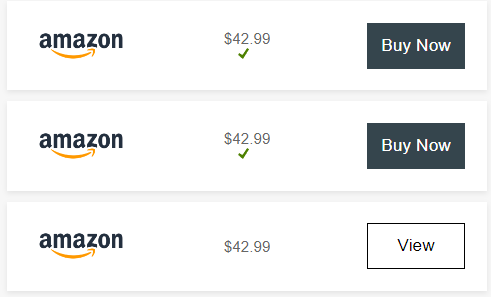
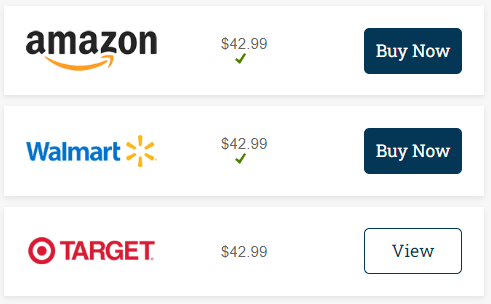
add example to template

diff --git a/ProductLightbox/example/override.css b/ProductLightbox/example/override.css
@@ -1,17 +1,17 @@
 /* VARIABLES */
 :root {
-    --dark-text: #000;
+    --dark-text: #043755;
     --light-text: #fff;
     --ribbon-background: var(--dark-text);
     --ribbon-text: var(--light-text);
     --footer-background: var(--ribbon-background);
     --footer-text: var(--ribbon-text);
     --search-icons: var(--dark-text);
-    --btn-border-radius: 0px;
+    --btn-border-radius: 5px;
     --btn-border-width: 1px;
-    --bubbles-border-radius: 0px;
+    --bubbles-border-radius: 25px;
     --geolocation-border-radius: var(--btn-border-radius);
-};
+}
 
 /* BUTTONS */
 .ps-widget[ps-sku].ps-enabled,
@@ -21,7 +21,10 @@ button.ps-online-buy-button.available {
     border-color: var(--dark-text);
     border-radius: var(--btn-border-radius);
     border-width: var(--btn-border-width);
-};
+}
+
+;
+
 .ps-widget[ps-sku].ps-disabled,
 button.ps-online-buy-button.unavailable {
     color: var(--dark-text);
@@ -29,7 +32,7 @@ button.ps-online-buy-button.unavailable {
     border-color: var(--dark-text);
     border-radius: var(--btn-border-radius);
     border-width: var(--btn-border-width);
-};
+}
 
 
 /* LOGO */
@@ -42,39 +45,45 @@ div.ps-client-logo.inline.small {
     display: flex;
     align-items: center;
     justify-content: center;
-};
-div.ps-client-logo.inline > div > img {
+}
+
+div.ps-client-logo.inline>div>img {
     width: 100px;
-};
+}
 
 /* HEADER */
-.ps-product-details > h2.ps-product-name {
+.ps-product-details>h2.ps-product-name {
     max-width: 630px;
     color: var(--dark-text);
-};
+}
+
 .ps-product-selector {
     display: flex;
     flex-direction: row;
     gap: 12px;
     max-width: 630px;
     margin-top: 15px;
-};
-.ps-product-selector > div {
+}
+
+.ps-product-selector>div {
     display: flex;
     flex-direction: column;
-};
-.ps-product-selector > div > label {
+}
+
+.ps-product-selector>div>label {
     font-weight: 600;
     color: var(--dark-text);
-};
-.ps-product-selector > div > select {
+}
+
+.ps-product-selector>div>select {
     height: auto;
     width: auto;
     padding: 4px 8px;
     border-radius: var(--btn-border-radius);
     border-color: var(--dark-text);
     color: var(--dark-text);
-};
+}
+
 .bubbles {
     font-family: Arial, Helvetica, sans-serif;
     font-weight: 600;
@@ -84,61 +93,68 @@ div.ps-client-logo.inline > div > img {
     color: var(--dark-text);
     border: 1px solid var(--dark-text);
     border-radius: var(--bubbles-border-radius);
-};
+}
+
 .bubbles:nth-of-type(1) {
     background: var(--dark-text);
     color: var(--light-text);
     border-color: var(--dark-text);
-};
+}
 
 /* MAIN */
 .ps-ribbon {
     background-color: var(--ribbon-background);
-};
-.ps-lightbox .ps-online-tab-label > h2, 
-.ps-lightbox .ps-local-tab-label > h2 {
+}
+
+.ps-lightbox .ps-online-tab-label>h2,
+.ps-lightbox .ps-local-tab-label>h2 {
     color: var(--ribbon-text);
-};
-.ps-location > div > span.ps-map-geolocation-button > svg > path, 
-.ps-location > div > span.ps-map-location-button > svg > path {
+}
+
+.ps-location>div>span.ps-map-geolocation-button>svg>path,
+.ps-location>div>span.ps-map-location-button>svg>path {
     fill: var(--search-icons);
-};
+}
+
 .ps-location>div>span.ps-map-location-button {
     border-top-right-radius: var(--geolocation-border-radius);
     border-bottom-right-radius: var(--geolocation-border-radius);
-};
+}
+
 .ps-location>div>span.ps-map-geolocation-button {
     border-top-left-radius: var(--geolocation-border-radius);
     border-bottom-left-radius: var(--geolocation-border-radius);
-};
+}
+
 .ps-location>div>input {
     border-radius: var(--geolocation-border-radius);
-};
+}
 
 /* FOOTER */
 .ps-footer {
     background-color: var(--footer-background);
     border-top-color: var(--footer-text);
-};
-.ps-footer > span > a > svg > path, 
-.ps-footer > div > span {
+}
+
+.ps-footer>span>a>svg>path,
+.ps-footer>div>span {
     color: var(--footer-text);
     fill: var(--footer-text);
-};
+}
 
 /* RESPONSIVE STYLES */
 @media screen and (max-width: 1024px) {
     div.ps-client-logo.inline.small {
         display: none;
-    };
-};
+    }
+}
 
 /* DISABLE SELLER OPTIONS */
 /* 
 .ps-stock-status {
     display: none;
-};
+}
 .ps-price {
     display: none;
-};
+} 
 */

diff --git a/ProductLightbox/example/script.js b/ProductLightbox/example/script.js
@@ -2,20 +2,23 @@
 // VARIABLES
 // =========
 const widgetID = "61c0a3400b9fd9001be2cc80";
-const prodName = "Product Name";
-const prodImgUrl = "https://www.neudesic.com/wp-content/uploads/priceSpider.jpg";
-const formattedPrice = "$0.00";
-const price = 0.00;
+const prodName = "Barrel Reserve Sloe Gin";
+const prodImgUrl = "https://assets.website-files.com/6064c9373e07d699e439019e/6078f77d217967f0c96f6ef5_Untitled%20design%20(2).png";
+const formattedPrice = "$42.99";
+const price = 42.99;
 const isProductSelector = true;
 const isBubbleSelector = false;
 const dropdownSelectors = [
-    { "label": null, "value": null },
-    { "label": null, "value": null },
-    { "label": null, "value": null}
+    { "label": "Type", "value": "Barrel Reserve Sloe Gin" },
+    { "label": "Quantity", "value": "1 Bottle" },
+    { "label": null, "value": null }
 ];
-const bubbleSelectors = [];
-const onlineSellerImgs = []; 
-const localSellerImgs = [];
+const bubbleSelectors = ["1 Bottle", "6-pack", "12-pack"];
+const onlineSellerImgs = [];
+const localSellerImgs = [
+    "https://beveragedynamics.com/wp-content/uploads/2017/06/bevmo-logo.jpg",
+    "https://www.walgreens.com/images/adaptive/si/1485908_WAG_Signature_logo_RGB_750x208.png"
+];
 
 
 // ================================
@@ -87,7 +90,7 @@ wtbButton.addEventListener("click", () => {
         localSellerImgs.length && changeLocalSellerImgs();
         onlineSellerImgs.length && changeOnlineSellerImgs();
     }, 1000);
-    
+
 });
 
 // FUNCTIONS
@@ -128,5 +131,5 @@ const changeOnlineSellerImgs = () => {
     const onlineSellers = document.querySelectorAll(".ps-online-seller-details-wrapper > div > img");
     const lastSeller = document.querySelector(".ps-last-online-seller-details-wrapper > div > img");
     onlineSellers.forEach((seller, index) => seller.src = onlineSellerImgs[index]);
-    lastSeller.src = onlineSellerImgs[onlineSellerImgs.length-1];
+    lastSeller.src = onlineSellerImgs[onlineSellerImgs.length - 1];
 };

diff --git a/README.md b/README.md
@@ -46,7 +46,7 @@ This repo is a work in progress. Solutions Developers can collaborate here to cr
 10. Click on the variant that you use for creating proofs, or create one if you don't already have one. (for a working example, click on **jk-demo**)
 11. Toggle on *Brand Logo*, *Product Selector*, and *Product Selector Label* if using. Then click Build > Save.
 12. Go to the **Asset Manager** and upload your *script.js* and *override.css* files. Also upload a logo and font if you're using them.
-13. Go back to your widget editor and click Build. You should now see your assets and styles appear in the lightbox. It should look something like the photo below if you did not change any of the default variables in the *script.js* or *override.css* files.
+13. Go back to your widget editor and click Build. You should now see your assets and styles appear in the lightbox. Below you can see an example of this in action.
 
     ![](images/widgetResult.png)
 
